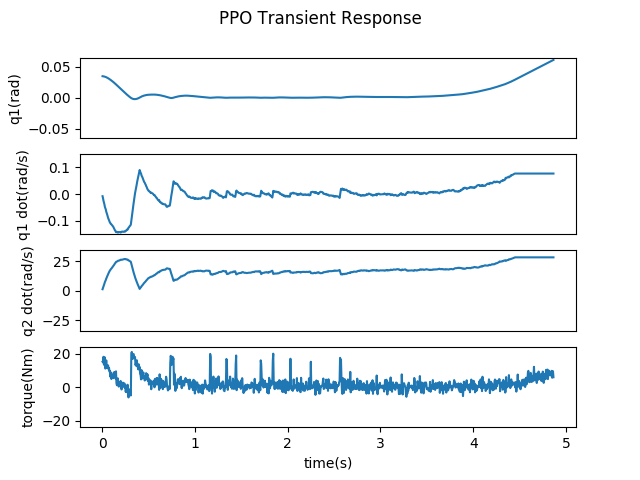
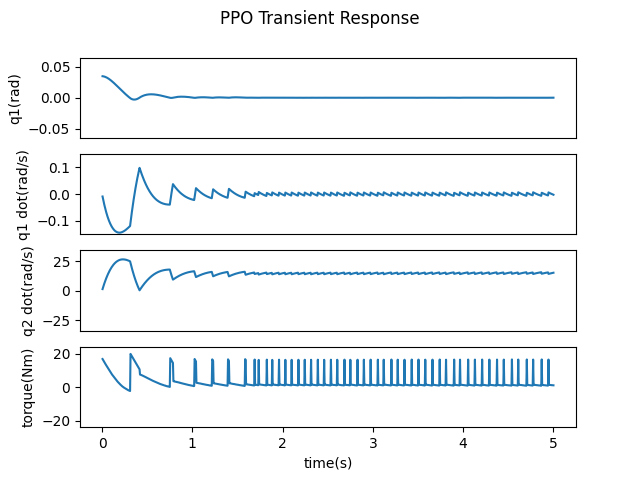
0702 PPO test action_std->0.001(more deterministic), SAC 9 normalize(fix norm bug), 10 log -> normalize, TD3 14-17, PPO 3,4

diff --git a/Pendulum_v3_mirror.py b/Pendulum_v3_mirror.py
@@ -13,7 +13,7 @@ Author: [openai](https://github.com/openai)
 Last modified: 2021/10/31
 """
 import pygame
-from math import pi, sin, cos
+from math import pi, sin, cos, log
 import numpy as np
 
 import gym
@@ -21,7 +21,7 @@ from gym import spaces, logger
 
 
 class Pendulum(gym.Env):
-    def __init__(self, rend):
+    def __init__(self, rend, log_norm):
         #self.frames = frames
         #self.interval_num = interval_num
         #self.cur_case = 1
@@ -29,6 +29,7 @@ class Pendulum(gym.Env):
         #self.w_q1 = w_q1
         #self.done_cost = done_cost
         #self.w_q2dot = w_q2dot
+        self.log_norm = log_norm
 
         self.theta_rod = 0
         self.theta_wheel = 0
@@ -119,7 +120,11 @@ class Pendulum(gym.Env):
 
         #self.last_u = None
         self.last_torque = 0
-        self.agent_state = self.norm_agent_state(self.agent_state)
+
+        if not self.log_norm:
+            self.agent_state = self.norm_agent_state(self.agent_state)
+        else:
+            self.agent_state = self.log_norm_agent_state(self.agent_state)
 
         return np.array(self.agent_state, dtype=np.float32)
 
@@ -241,7 +246,10 @@ class Pendulum(gym.Env):
             costs = 0.000025 * q2_dot ** 2 + 0.0001 * (self.last_torque - torque) ** 2'''
 
         self.last_torque = torque
-        self.agent_state = self.norm_agent_state(self.agent_state)
+        if not self.log_norm:
+            self.agent_state = self.norm_agent_state(self.agent_state)
+        else:
+            self.agent_state = self.log_norm_agent_state(self.agent_state)
 
         #print("state: ", self.state)
         #print("agent state: ", self.agent_state)
@@ -255,9 +263,24 @@ class Pendulum(gym.Env):
 
     def norm_agent_state(self, state):
         state = (state[0] / self.max_q1,
-                 (state[1] - self.max_q1dot) / (2 * self.max_q1dot),
-                 (state[2] - self.wheel_max_speed) / (2 * self.wheel_max_speed)
+                 (state[1] - (-self.max_q1dot)) / (2 * self.max_q1dot),
+                 (state[2] - (-self.wheel_max_speed)) / (2 * self.wheel_max_speed)
         )
+        return state
+
+    def log_norm_agent_state(self, state):
+        if state[1] >= 0:
+            sign = 1
+            state_1 = state[1]
+        else:
+            sign = -1
+            state_1 = -state[1]
+
+        state = ((log((state[0]+0.01), 10) - (-2)) / (log((self.max_q1+0.01), 10) - (-2)),
+                 sign * ((log((state_1+0.01), 10) - (-2)) / (log((self.max_q1dot+0.01), 10) - (-2))),
+                 (state[2] - (-self.wheel_max_speed)) / (2 * self.wheel_max_speed)
+                 )
+
         return state
 
 def angle_normalize(th):

diff --git a/train.py b/train.py
@@ -24,6 +24,7 @@ parser.add_argument("-lr_c", type=float, default=0.001, help="learning rate for 
 parser.add_argument("-r", "--render", type=int, default=0, choices=[0, 1], help="Rendering the evaluation runs if set to 1, default=0")
 parser.add_argument("-done_cost", type=int, default=100, help="done cost")
 parser.add_argument("-w_q2dot", type=float, default=0.0, help="q2 dot weight")
+parser.add_argument("-log_norm", type=int, default=0, help="0: normalize, 1: log and normalize")
 
 #SAC arguments
 parser.add_argument("-per", type=int, default=0, choices=[0, 1],
@@ -101,10 +102,10 @@ def train():
         if args.type == "SAC":
             action = agent.act(state)
             next_state, reward, done, _ = env.step(action)
-            if done or rep >= rep_max:
-                agent.step(state, action, reward, next_state, [done], frame, 0)
-            else:
-                agent.memory.add(state, action, reward, next_state, [done])
+            #if done or rep >= rep_max:
+            agent.step(state, action, reward, next_state, [done], frame, 0)
+            #else:
+            #    agent.memory.add(state, action, reward, next_state, [done])
             state = next_state
 
         elif args.type == "TD3":
@@ -148,7 +149,7 @@ def train():
 
 if __name__ == "__main__":
 
-    env = Pendulum(args.render)
+    env = Pendulum(args.render, args.log_norm)
 
     torch.manual_seed(args.seed)
     np.random.seed(args.seed)

diff --git a/test.py b/test.py
@@ -20,6 +20,7 @@ parser.add_argument("-lr_a", type=float, default=0.0003, help="learning rate for
 parser.add_argument("-lr_c", type=float, default=0.001, help="learning rate for critic network")
 parser.add_argument("-done_cost", type=int, default=100, help="done cost")
 parser.add_argument("-w_q2dot", type=float, default=0.01, help="q2 dot weight")
+parser.add_argument("-log_norm", type=int, default=0, help="0: normalize, 1: log and normalize")
 
 # SAC parameters
 parser.add_argument("-per", type=int, default=0, choices=[0, 1],
@@ -163,7 +164,7 @@ def test(env, agent, args):
 
 if __name__ == "__main__":
 
-    env = Pendulum(args.render)
+    env = Pendulum(args.render, args.log_norm)
 
     device = torch.device("cuda:0" if torch.cuda.is_available() else "cpu")
     print(f"Using device: {device}")
@@ -200,8 +201,7 @@ if __name__ == "__main__":
         agent.actor.load_state_dict(torch.load(checkpoint_path, map_location=torch.device('cpu')))
 
     elif args.type == "PPO":
-        action_std = 0.1  # starting std for action distribution (Multivariate Normal)
-        min_action_std = 0.1  # minimum action_std (stop decay after action_std <= min_action_std)
+        action_std = 0.001 #0.1  # starting std for action distribution (Multivariate Normal)
         K_epochs = 80
         eps_clip = 0.2
         gamma = args.gamma
